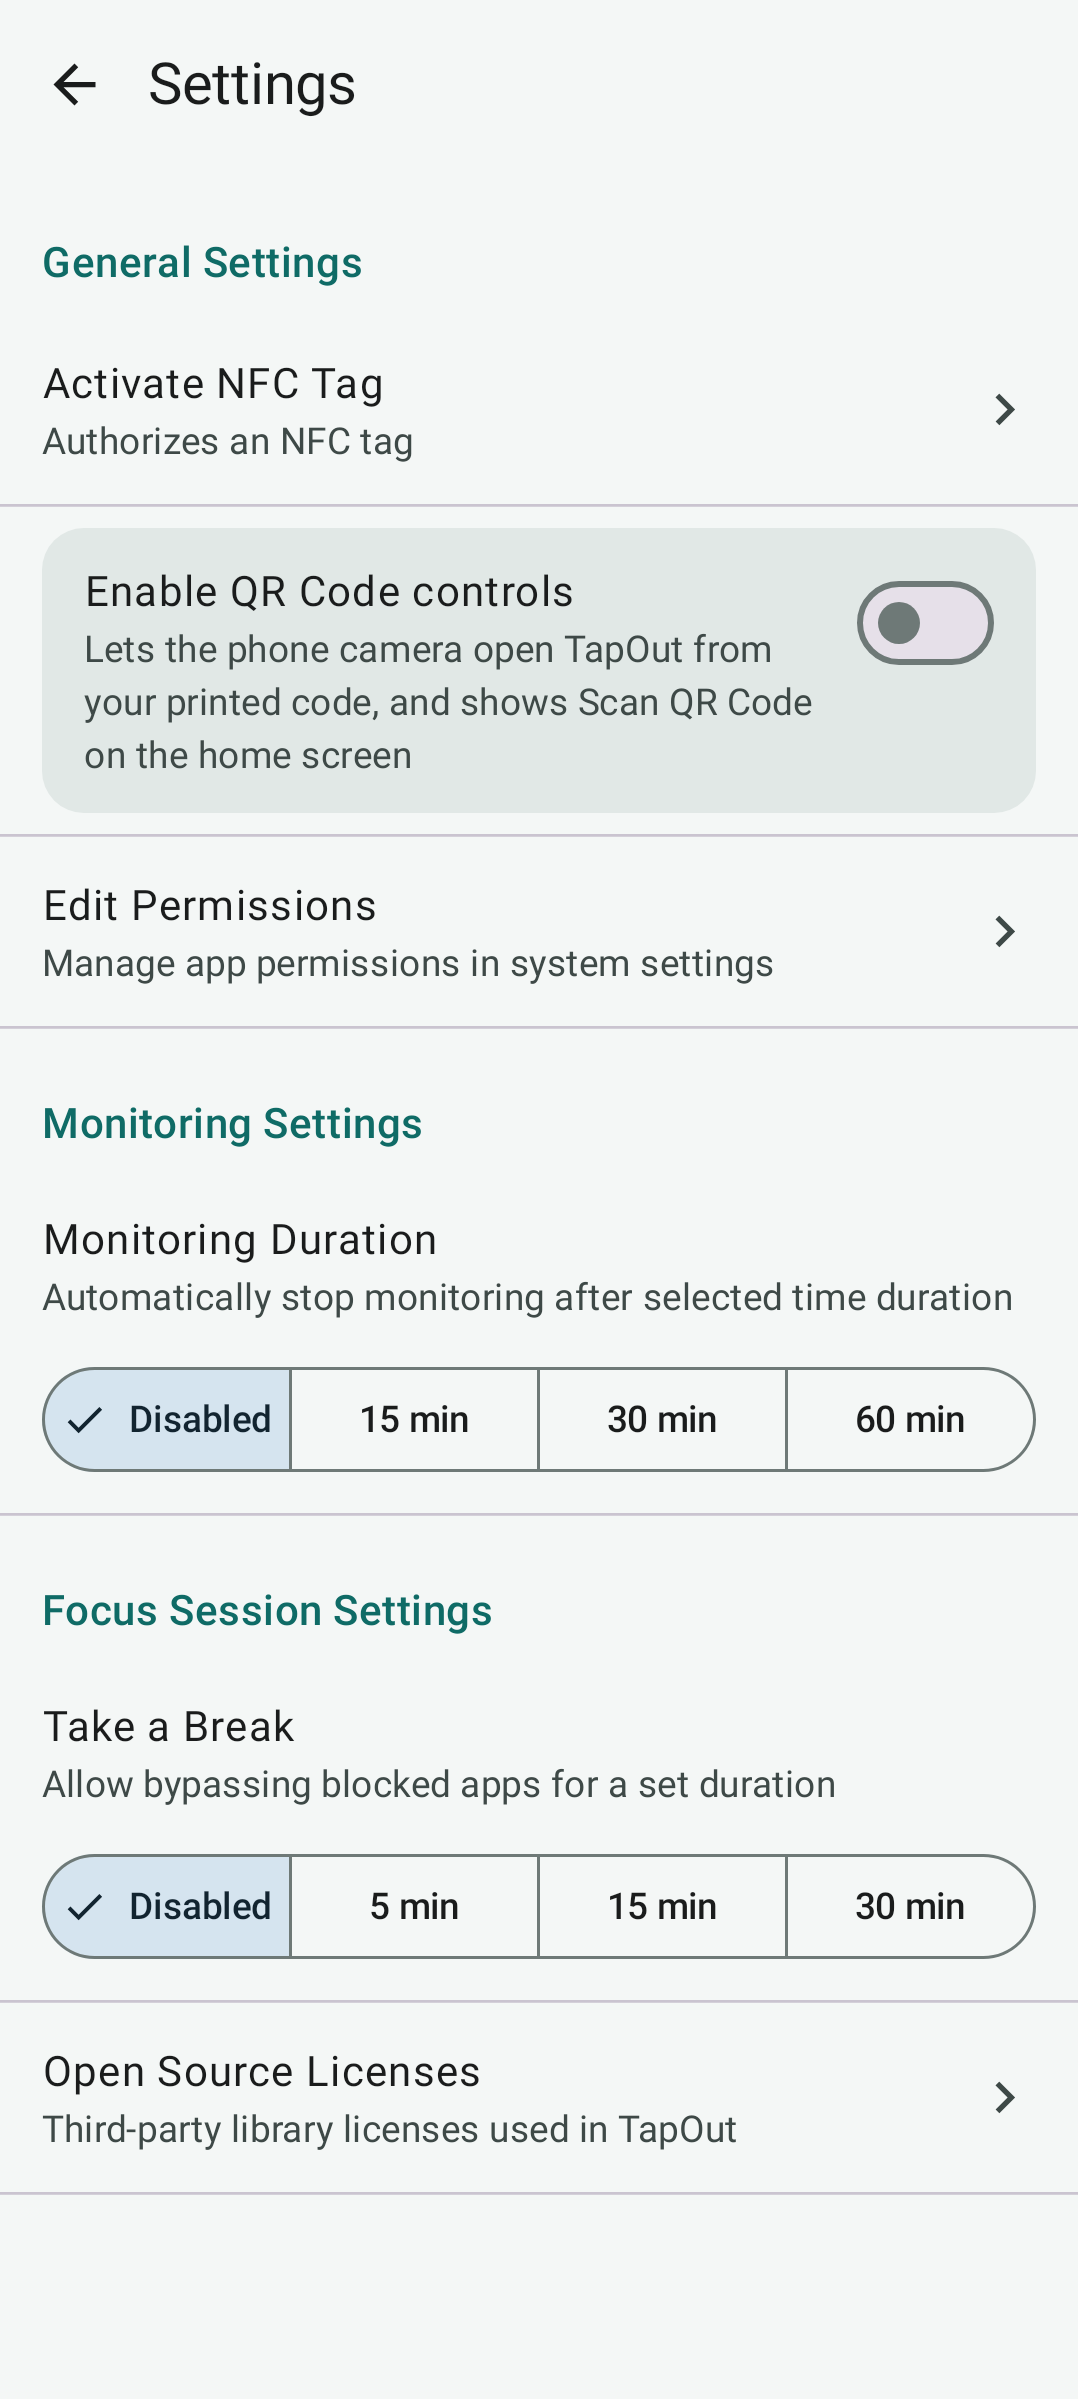
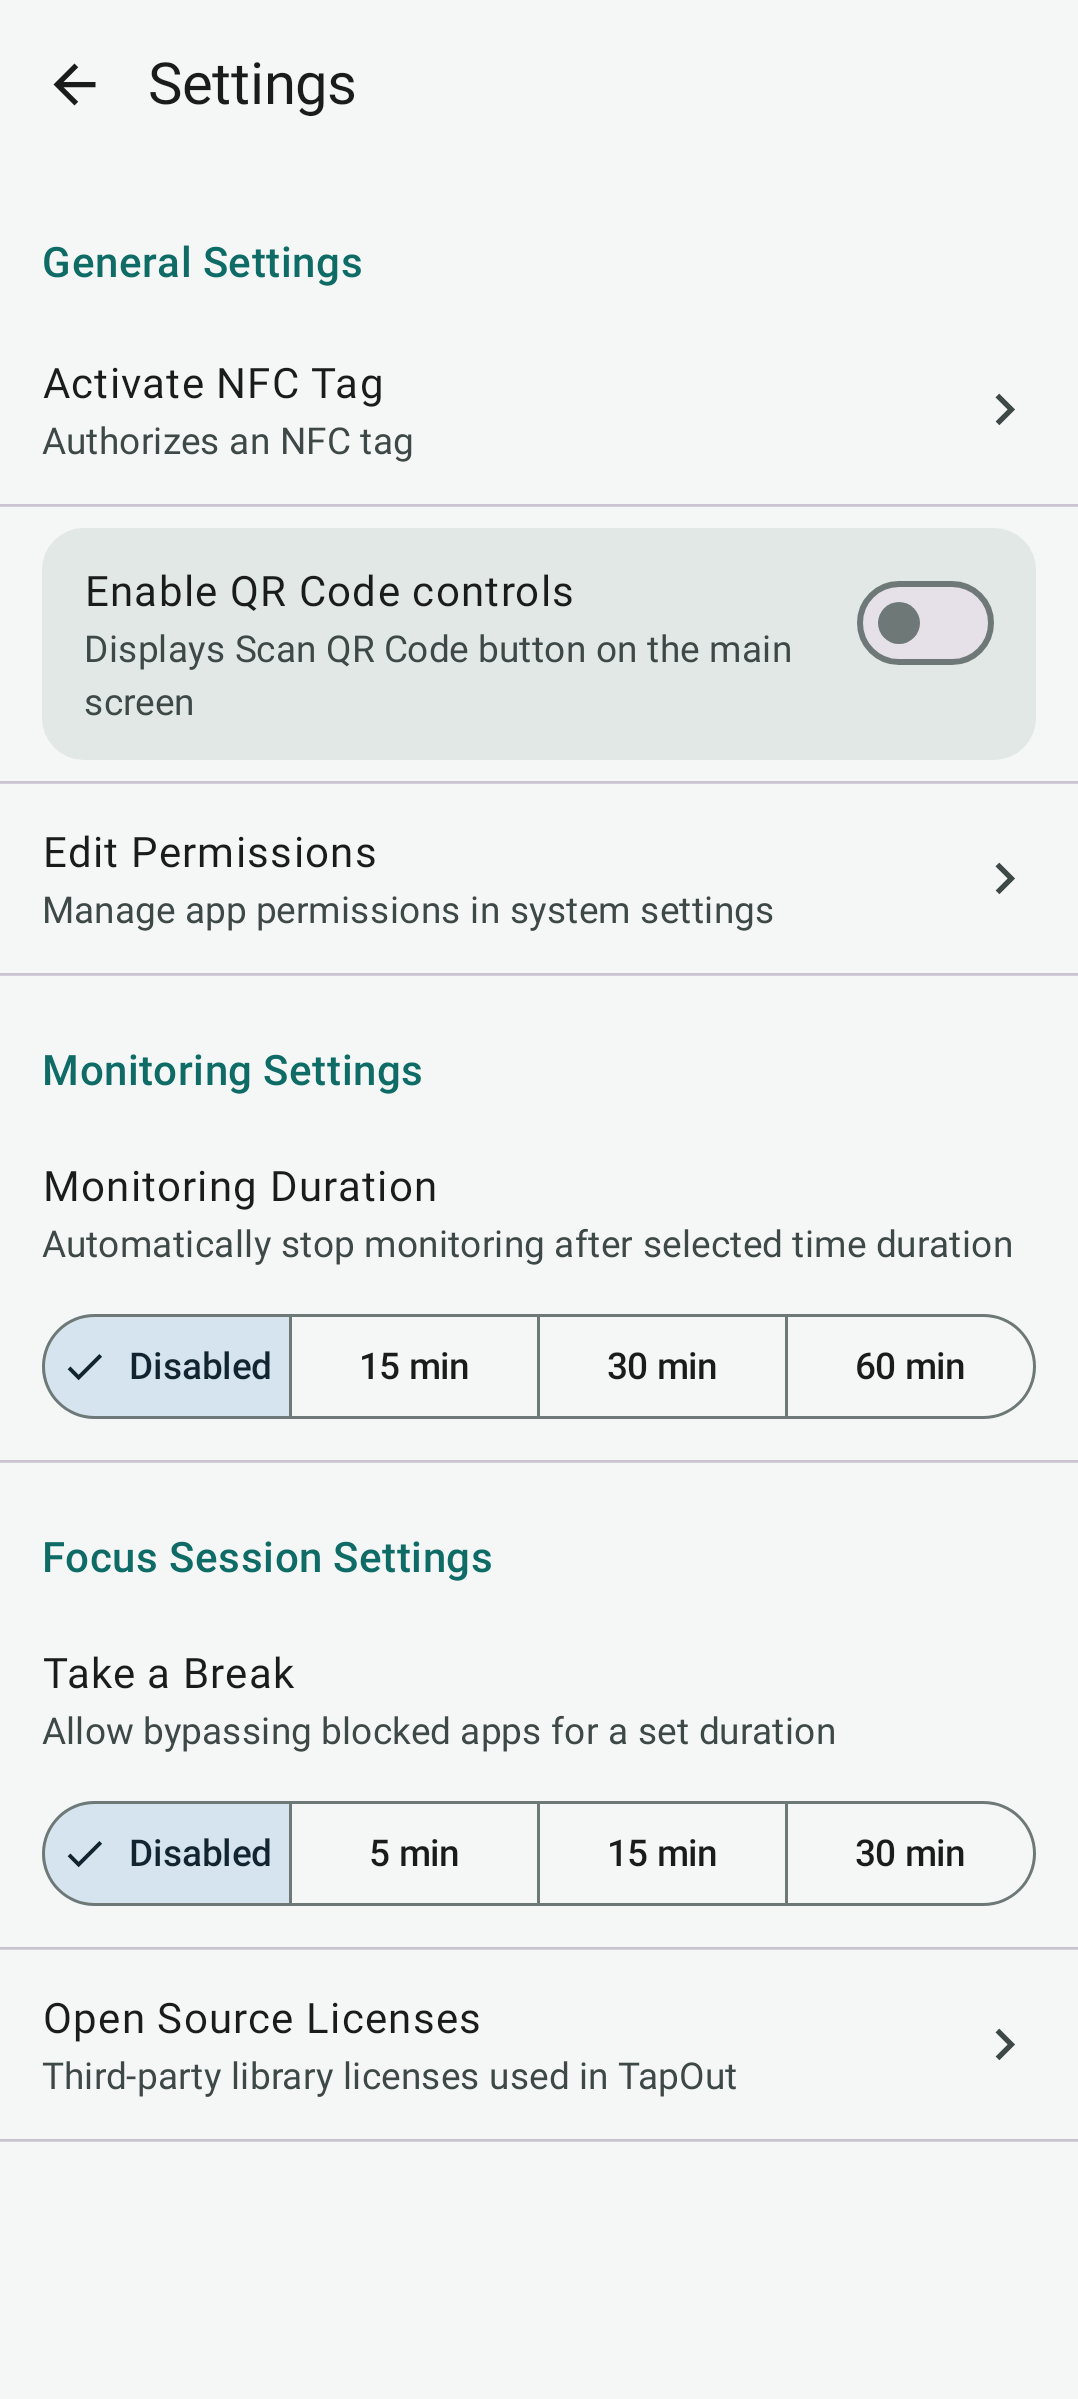
fix: restore the shorter QR controls description
Put the supporting line under Enable QR Code controls back to
"Displays Scan QR Code button on the main screen".

diff --git a/app/src/main/java/com/galynte/tapblok/SettingsActivity.kt b/app/src/main/java/com/galynte/tapblok/SettingsActivity.kt
@@ -151,7 +151,7 @@ fun SettingsScreen(
                     ListItem(
                         headlineContent = { Text("Enable QR Code controls") },
                         supportingContent = {
-                            Text("Lets the phone camera open TapOut from your printed code, and shows Scan QR Code on the home screen")
+                            Text("Displays Scan QR Code button on the main screen")
                         },
                         trailingContent = {
                             Switch(

diff --git a/app/src/test/java/com/galynte/tapblok/SettingsQrSectionTest.kt b/app/src/test/java/com/galynte/tapblok/SettingsQrSectionTest.kt
@@ -49,6 +49,7 @@ class SettingsQrSectionTest {
         }
         composeRule.onAllNodesWithText("Display QR Code").assertCountEquals(0)
         composeRule.onNodeWithText("Enable QR Code controls").assertIsDisplayed()
+        composeRule.onNodeWithText("Displays Scan QR Code button on the main screen").assertIsDisplayed()
     }
 
     @Test
